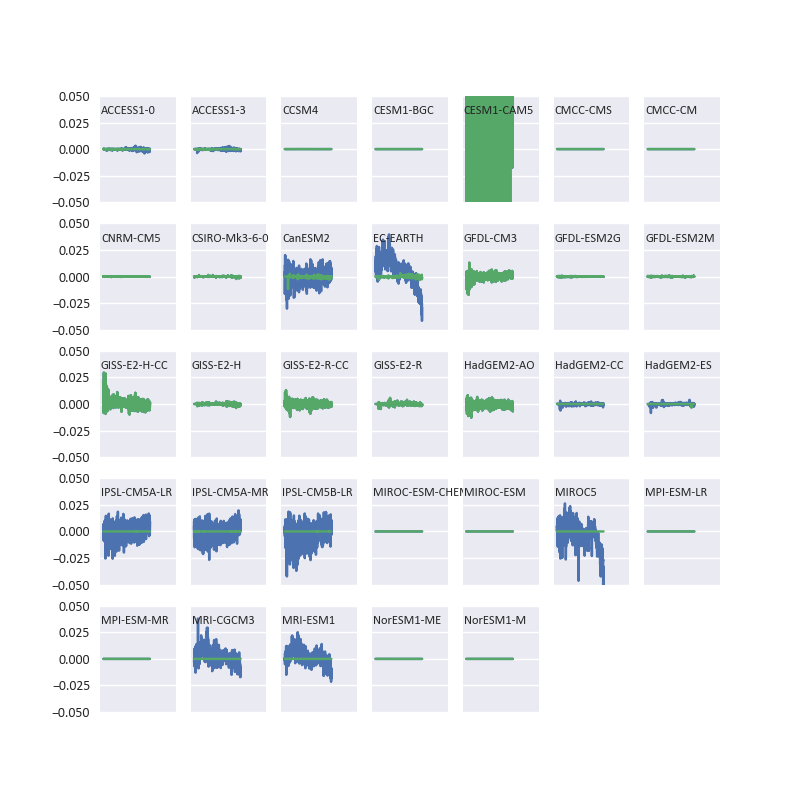
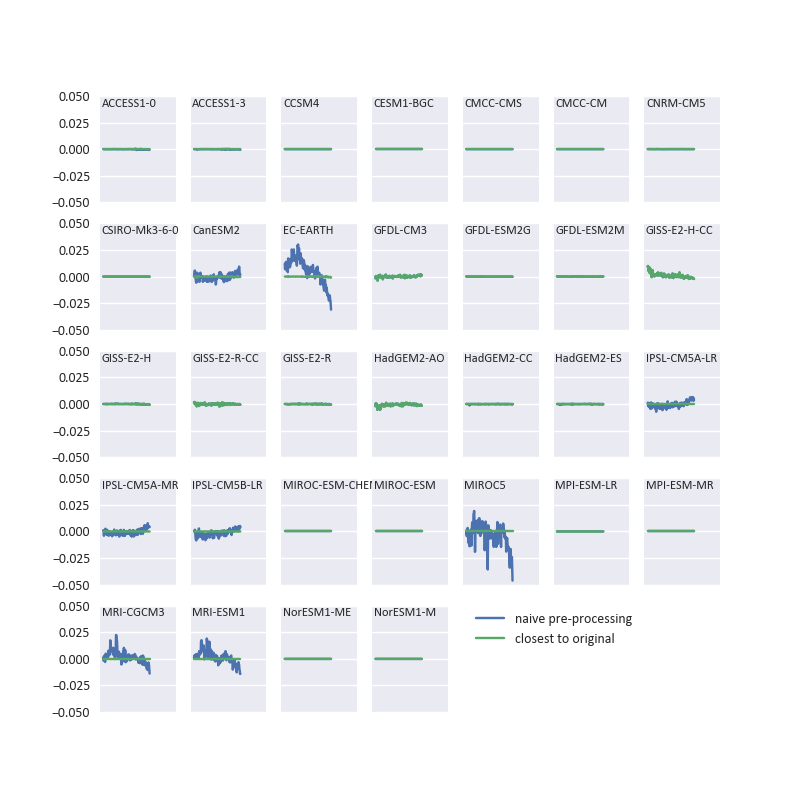
use different models

diff --git a/scripts/plots_overview.py b/scripts/plots_overview.py
@@ -16,10 +16,10 @@ gmt_cowtan=da.read_nc('../data/gmt_all_cowtan.nc')['gmt']
 gmt_all=da.read_nc('data/gmt_reproducedErrors.nc')['gmt']
 
 # select special runs
-all_model_runs=[u'ACCESS1-0_r1i1p1',u'ACCESS1-3_r1i1p1',u'CCSM4_r1i1p1',u'CESM1-BGC_r1i1p1',u'CESM1-CAM5_r1i1p1',u'CMCC-CMS_r1i1p1',u'CMCC-CM_r1i1p1',u'CNRM-CM5_r1i1p1',\
+all_model_runs=[u'ACCESS1-0_r1i1p1',u'ACCESS1-3_r1i1p1',u'CCSM4_r1i1p1',u'CESM1-BGC_r1i1p1',u'CMCC-CMS_r1i1p1',u'CMCC-CM_r1i1p1',u'CNRM-CM5_r1i1p1',\
 		u'CSIRO-Mk3-6-0_r1i1p1',u'CanESM2_r1i1p1',u'EC-EARTH_r1i1p1',u'GFDL-CM3_r1i1p1',u'GFDL-ESM2G_r1i1p1',u'GFDL-ESM2M_r1i1p1',u'GISS-E2-H-CC_r1i1p1',u'GISS-E2-H_r1i1p1',\
 		u'GISS-E2-R-CC_r1i1p1',u'GISS-E2-R_r1i1p1',u'HadGEM2-AO_r1i1p1',u'HadGEM2-CC_r1i1p1',u'HadGEM2-ES_r1i1p1',u'IPSL-CM5A-LR_r1i1p1',u'IPSL-CM5A-MR_r1i1p1',u'IPSL-CM5B-LR_r1i1p1',\
-		u'MIROC-ESM-CHEM_r1i1p1',u'MIROC-ESM_r1i1p1',u'MIROC5_r1i1p1',u'MPI-ESM-LR_r1i1p1',u'MPI-ESM-MR_r1i1p1',u'MRI-CGCM3_r1i1p1',u'MRI-ESM1_r1i1p1',u'NorESM1-ME_r1i1p1',u'NorESM1-M_r1i1p1']
+		u'MIROC-ESM-CHEM_r1i1p1',u'MIROC-ESM_r1i1p1',u'MIROC5_r1i1p1',u'MPI-ESM-LR_r1i1p1',u'MPI-ESM-MR_r1i1p1',u'MRI-CGCM3_r1i1p1',u'MRI-ESM1_r1i1p1',u'NorESM1-ME_r1i1p1',u'NorESM1-M_r1i1p1'] #,u'CESM1-CAM5_r1i1p1'
 
 # tos issue models
 tos_issues=[u'EC-EARTH_r1i1p1',
@@ -27,7 +27,7 @@ tos_issues=[u'EC-EARTH_r1i1p1',
  u'MRI-CGCM3_r1i1p1',
  u'MRI-ESM1_r1i1p1',]
 
-
+var='gmt'
 for style in ['xax','had4']:
 	plt.close('all')
 	fig,axes=plt.subplots(nrows=5,ncols=7,figsize=(8,8),gridspec_kw = {'width_ratios':[3,3,3,3,3,3,3]})
@@ -35,11 +35,11 @@ for style in ['xax','had4']:
 	for model_run,ax,i in zip(all_model_runs,axes[0:len(all_model_runs)],range(len(all_model_runs))):
 		if np.isfinite(np.nanmean(gmt_all['_normal','_remapbil',style,'rcp85',model_run,'gmt',:].values)):
 			diff=(gmt_all['_naive','_remapbil',style,'rcp85',model_run,var,1861:2100].values-gmt_cowtan[style,'rcp85',model_run,var,1861:2100].values)
-			ax.plot(gmt_cowtan.time,diff)
+			ax.plot(range(1861,2100,1),diff.reshape((len(gmt_cowtan.time)/12,12)).mean(axis=-1),label='naive pre-processing')
 			diff=(gmt_all['_normal','_remapbil',style,'rcp85',model_run,var,1861:2100].values-gmt_cowtan[style,'rcp85',model_run,var,1861:2100].values)
-			ax.plot(gmt_cowtan.time,diff)
+			ax.plot(range(1861,2100,1),diff.reshape((len(gmt_cowtan.time)/12,12)).mean(axis=-1),label='closest to original')
 
-		ax.text(1853,0.033,model_run.split('_')[0],fontsize=9)
+		ax.annotate(model_run.split('_')[0],fontsize=9, xy=(0.02, 0.9), xycoords='axes fraction')
 		ax.set_xlim((1850,2100))
 		ax.set_ylim((-0.05,0.05))
 		ax.get_xaxis().set_visible(False)
@@ -47,9 +47,38 @@ for style in ['xax','had4']:
 		if i%7 != 0:
 			ax.yaxis.set_ticklabels([])
 
-	for ax in axes[-2:]:
+	ax.legend(loc='left',bbox_to_anchor=(3.6, 1.05))
+
+	for ax in axes[-3:]:
 		ax.axis('off')
 
 	#plt.tight_layout()
 	plt.savefig('figures/overview_'+style+'.png')
 #
+
+
+var='gmt'
+for style in ['xax']:
+	plt.close('all')
+	fig,axes=plt.subplots(nrows=5,ncols=7,figsize=(8,8),gridspec_kw = {'width_ratios':[3,3,3,3,3,3,3]})
+	axes=axes.flatten()
+	for model_run,ax,i in zip(all_model_runs,axes[0:len(all_model_runs)],range(len(all_model_runs))):
+		if np.isfinite(np.nanmean(gmt_all['_normal','_remapbil',style,'rcp85',model_run,'gmt',:].values)):
+			for regrid in ['_remapdis','_remapbil','_remapnn','_remapdis_sftlfBased','_remapbil_sftlfBased','_remapnn_sftlfBased']:
+				diff=(gmt_all['_normal',regrid,style,'rcp85',model_run,var,1861:2100].values-gmt_cowtan[style,'rcp85',model_run,var,1861:2100].values)
+				ax.plot(range(1861,2100,1),diff.reshape((len(gmt_cowtan.time)/12,12)).mean(axis=-1),label=regrid.replace('_',''))
+
+		ax.annotate(model_run.split('_')[0],fontsize=9, xy=(0.02, 0.9), xycoords='axes fraction')
+		ax.set_xlim((1850,2100))
+		ax.set_ylim((-0.025,0.025))
+		ax.get_xaxis().set_visible(False)
+		ax.set_yticks([-0.025,-0.0125,0,0.0125,0.025])
+		if i%7 != 0:
+			ax.yaxis.set_ticklabels([])
+
+	ax.legend(bbox_to_anchor=(1.1, 1.05))
+	for ax in axes[-3:]:
+		ax.axis('off')
+
+	#plt.tight_layout()
+	plt.savefig('figures/overview_'+style+'_remapSFTOF.png')

diff --git a/scripts/plots_map_samples.py b/scripts/plots_map_samples.py
@@ -23,10 +23,10 @@ import plot_maps as pl_mp; reload(pl_mp)
 
 # sic treatment
 arguments={
-	'files':['data_models/EC-EARTH_r1i1p1/sic_rcp85_1861-2014.nc','data_models/EC-EARTH_r1i1p1/sic_rcp85_sicFix_1861-2014.nc'],
+	'files':['data_models/ACCESS1-0_r1i1p1/sic_rcp85_1861-2014.nc','data_models/ACCESS1-0_r1i1p1/sic_rcp85_sicFix_1861-2014.nc'],
 	'var_names':['sic','sic'],
 	'titles':['no NAN-treatment','correct NAN-treatment'],
-	'outfile':'gmt_method_sensitivities/figures/maps_EC-EARTH_sicTreatment.png',
+	'outfile':'gmt_method_sensitivities/figures/maps_ACCESS1-0_sicTreatment.png',
 	'label':'sic [0-1]',
 	'color_range':[0,1],
 	'extend':[5,35,50,85],
@@ -37,10 +37,10 @@ pl_mp.plot_maps(**arguments)
 
 # tos treatment
 arguments={
-	'files':['data_models/EC-EARTH_r1i1p1/tos_rcp85_tosError_1861-2014.nc','data_models/EC-EARTH_r1i1p1/tos_rcp85_1861-2014.nc'],
+	'files':['data_models/MIROC5_r1i1p1/tos_rcp85_tosError_1861-2014.nc','data_models/MIROC5_r1i1p1/tos_rcp85_1861-2014.nc'],
 	'var_names':['tos','tos'],
 	'titles':['no NAN-treatment','correct NAN-treatment'],
-	'outfile':'gmt_method_sensitivities/figures/maps_EC-EARTH_tosTreatment.png',
+	'outfile':'gmt_method_sensitivities/figures/maps_MIROC5_tosTreatment.png',
 	'label':'tos [K]',
 	'color_range':[270,290],
 	'extend':[-10,20,30,65],

diff --git a/scripts/step2_execute_reproduceAllErrors.py b/scripts/step2_execute_reproduceAllErrors.py
@@ -69,16 +69,12 @@ sftof_replace_dict={'HadGEM2-AO':'HadGEM2-ES',
 					'IPSL-CM5B-LR':'ACCESS1-0',
 					} #'CESM1-CAM5':'CESM1-BGC'
 
-# sftof_replace_dict_naive={'HadGEM2-AO':'HadGEM2-ES',
-# 					'GISS-E2-R-CC':'GISS-E2-R',
-# 					'GISS-E2-H-CC':'GISS-E2-H',
-# 					'CNRM-CM5':'CNRM-CM5-2',
-# 					} #'CESM1-CAM5':'CESM1-BGC'
-sftof_replace_dict_naive={'HadGEM2-AO':'ACCES1-0',
-					'GISS-E2-R-CC':'ACCES1-0',
-					'GISS-E2-H-CC':'ACCES1-0',
-					'CNRM-CM5':'ACCES1-0',
+sftof_replace_dict_naive={'HadGEM2-AO':'HadGEM2-ES',
+					'GISS-E2-R-CC':'GISS-E2-R',
+					'GISS-E2-H-CC':'GISS-E2-H',
+					'CNRM-CM5':'CNRM-CM5-2',
 					} #'CESM1-CAM5':'CESM1-BGC'
+
 
 
 for sftof_style in regrid_styles:
